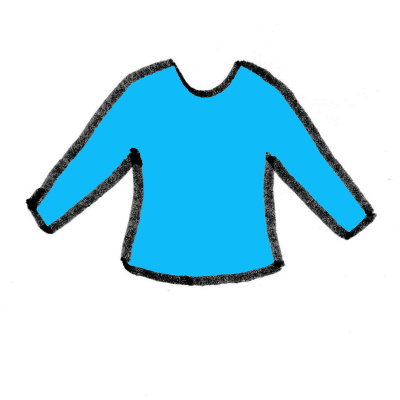
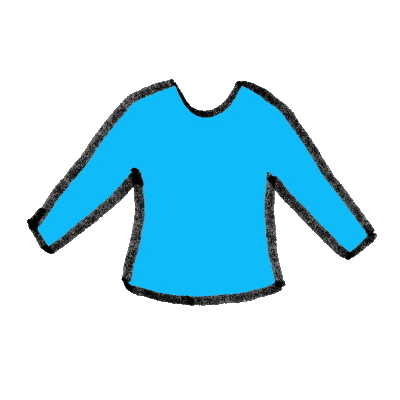
images

Changed region(s): [[0.06, 0.15, 0.96, 0.78]]

diff --git a/weather/outfits.js b/weather/outfits.js
@@ -4,20 +4,12 @@
 const clothesList = [
       {
         name: "Short Sleeve Shirt",
-        imgSrc: "images/short_sleeve.jpg", //img has a width and height
-        img2Src: "images/dummy2.jpg", 
-        imgAlt: "Image of short sleeve shirt",
-        //only use short sleeves ABOVE lowTemp, write if...else paired with long sleeves (unless a Sunday...check that first)
-        //can use if ABOVE pop
-        rainPop: 0,
-        //where to draw the image
-        xcoord: 1,
-        ycoord: 1
+        imgSrc: "images/short_sleeve.png", //img has a width and height
+        imgAlt: "Image of short sleeve shirt"
       },
       {
         name: "Long Sleeve Shirt",
-        imgSrc: "images/long_sleeve.jpg",
-        img2Src: "images/dummy2.jpg", 
+        imgSrc: "images/long_sleeve.png",
         imgAlt: "Image of long sleeve shirt",
         //only use long sleeve shirt BELOW highTemp
         //can use if ABOVE pop
@@ -27,8 +19,7 @@ const clothesList = [
       },
       {
         name: "Light Jacket",
-        imgSrc: "images/dummy.jpg", // "light_jacket.jpg",
-        img2Src: "images/dummy2.jpg",
+        imgSrc: "images/light_jacket.png",
         imgAlt: "Image of light jacket",
         //can use if ABOVE pop
         rainPop: 0,
@@ -37,8 +28,7 @@ const clothesList = [
       },
       {
         name: "Coat",
-        imgSrc: "images/dummy.jpg", // "coat.jpg",
-        img2Src: "images/dummy2.jpg",
+        imgSrc: "images/coat.png",
         imgAlt: "Image of coat",
         //can use if ABOVE pop
         rainPop: 0,
@@ -47,8 +37,7 @@ const clothesList = [
       },
       {
         name: "Umbrella",
-        imgSrc: "images/dummy.jpg", // "umbrella.jpg",
-        img2Src: "images/dummy2.jpg",
+        imgSrc: "images/umbrella.png",
         imgAlt: "Image of umbrella",
         //use daily.rain and/or daily.pop (probability of precipitation)
         //use if ABOVE pop
@@ -58,8 +47,7 @@ const clothesList = [
       },
       {
         name: "Shorts",
-        imgSrc: "images/dummy.jpg", // "shorts.jpg",
-        img2Src: "images/dummy2.jpg",
+        imgSrc: "images/shorts.png",
         imgAlt: "Image of shorts",
         //can use if ABOVE pop
         rainPop: 0,
@@ -68,8 +56,7 @@ const clothesList = [
       },
       {
         name: "Pants",
-        imgSrc: "images/pants.jpg",
-        img2Src: "images/dummy2.jpg",
+        imgSrc: "images/pants.png",
         imgAlt: "Image of pants",
         //can use if ABOVE pop
         rainPop: 0,
@@ -79,8 +66,7 @@ const clothesList = [
       {
         //everyday sandals
         name: "Sandals",
-        imgSrc: "images/sandals.jpg",
-        img2Src: "images/dummy2.jpg",
+        imgSrc: "images/sandals.png",
         imgAlt: "Image of sandals",
         //can use if ABOVE pop
         rainPop: 0,
@@ -89,8 +75,7 @@ const clothesList = [
       },
       {
         name: "Sneakers",
-        imgSrc: "images/dummy.jpg", // "sneakers.jpg",
-        img2Src: "images/dummy2.jpg",
+        imgSrc: "images/sneakers.png",
         imgAlt: "Image of sneakers",
         //can use if ABOVE pop
         rainPop: 0,
@@ -99,8 +84,7 @@ const clothesList = [
       },
       {
         name: "Socks",
-        imgSrc: "images/dummy.jpg", // "socks.jpg",
-        img2Src: "images/dummy2.jpg",
+        imgSrc: "images/socks.png",
         imgAlt: "Image of socks",
         //can use if ABOVE pop
         rainPop: 0,
@@ -110,8 +94,7 @@ const clothesList = [
       {
         //use with bitterly cold, below 30
         name: "Hat",
-        imgSrc: "images/dummy.jpg", // "hat.jpg",
-        img2Src: "images/dummy2.jpg",
+        imgSrc: "images/hat.png",
         imgAlt: "Image of winter hat",
         //can use if ABOVE pop
         rainPop: 0,
@@ -121,8 +104,7 @@ const clothesList = [
       {
         //use with bitterly cold, below 30
         name: "Scarf",
-        imgSrc: "images/dummy.jpg", // "scarf.jpg",
-        img2Src: "images/dummy2.jpg",
+        imgSrc: "images/scarf.png",
         imgAlt: "Image of winter scarf",
         //can use if ABOVE pop
         rainPop: 0,
@@ -132,8 +114,7 @@ const clothesList = [
       {
         //use with bitterly cold, below 30
         name: "Mittens",
-        imgSrc: "images/dummy.jpg", // "mittens.jpg",
-        img2Src: "images/dummy2.jpg",
+        imgSrc: "images/mittens.png",
         imgAlt: "Image of winter mittens",
         //can use if ABOVE pop
         rainPop: 0,
@@ -149,8 +130,7 @@ const clothesList = [
         //pic will include short sleeves, shorts, sandals
         //breakpoint: feels_like above 70
         name: "Hot Weather Outfit",
-        imgSrc: "images/dummy.jpg", // "hot.jpg",
-        img2Src: "images/dummy2.jpg",
+        imgSrc: "images/hot.png",
         imgAlt: "Image of hot weather outfit",
         //shirt: clothesList.name == ""  //not sure how to add in each clothesList item here
         clothing: ["Short Sleeve Shirt", "Shorts", "Sandals"],
@@ -161,8 +141,7 @@ const clothesList = [
         //pic will include short sleeves, pants, sandals
         //breakpoint: feels_like between 60-70
         name: "Mild Weather Outfit",
-        imgSrc: "images/mild.jpg",
-        img2Src: "images/dummy2.jpg",
+        imgSrc: "images/mild.png",
         imgAlt: "Image of mild weather outfit",
         clothing: ["Short Sleeve Shirt", "Pants", "Sandals"],
         lowTemp: 60,
@@ -172,8 +151,7 @@ const clothesList = [
         //pic will include short sleeves, pants, socks and shoes, light jacket
         //low will be cool but high will be warm, breakpoint: feels_like between 45-70
         name: "Cool to Warm Weather Outfit",
-        imgSrc: "images/dummy.jpg", // "cool_warm.jpg",
-        img2Src: "images/dummy2.jpg",
+        imgSrc: "images/cold.png", //use same img as cold weather outfit
         imgAlt: "Image of cool to warm weather outfit",
         clothing: ["Short Sleeve Shirt", "Pants", "Socks", "Sneakers", "Light Jacket"],
         lowTemp: 45,
@@ -184,8 +162,7 @@ const clothesList = [
         //pic will include long sleeves, pants, socks and shoes
         //breakpoint: feels_like between 50-60
         name: "Cool Weather Outfit",
-        imgSrc: "images/dummy.jpg", // "cool.jpg",
-        img2Src: "images/dummy2.jpg",
+        imgSrc: "images/cool.png",
         imgAlt: "Image of cool weather outfit",
         clothing: ["Long Sleeve Shirt", "Pants", "Socks", "Sneakers"],
         lowTemp: 50,
@@ -195,8 +172,7 @@ const clothesList = [
         //pic will include long sleeves, pants, socks and shoes, light jacket
         //breakpoint: feels_like between 40-50
         name: "Cold Weather Outfit",
-        imgSrc: "images/dummy.jpg", // "cold.jpg",
-        img2Src: "images/dummy2.jpg",
+        imgSrc: "images/cold.png",
         imgAlt: "Image of cold weather outfit",
         clothing: ["Long Sleeve Shirt", "Pants", "Socks", "Sneakers", "Light Jacket"],
         lowTemp: 40,
@@ -206,8 +182,7 @@ const clothesList = [
         //pic will include long sleeves, pants, socks and shoes, coat
         //breakpoint: feels_like between 30-40
         name: "Very Cold Weather Outfit",
-        imgSrc: "images/dummy.jpg", // "very_cold.jpg",
-        img2Src: "images/dummy2.jpg",
+        imgSrc: "images/very_cold.png",
         imgAlt: "Image of very cold weather outfit",
         clothing: ["Long Sleeve Shirt", "Pants", "Socks", "Sneakers", "Coat"],
         lowTemp: 30,
@@ -217,8 +192,7 @@ const clothesList = [
         //pic will include long sleeves, pants, socks and shoes, coat, hat, scarf, gloves/mittens
         //breakpoint: feels_like below 30
         name: "Bitterly Cold Weather Outfit",
-        imgSrc: "images/dummy.jpg", // "bitterly_cold.jpg",
-        img2Src: "images/dummy2.jpg",
+        imgSrc: "images/bitterly_cold.png",
         imgAlt: "Image of bitterly cold weather outfit",
         clothing: ["Long Sleeve Shirt", "Pants", "Socks", "Sneakers", "Coat", "Hat", "Scarf", "Mittens"],
         lowTemp: -200,
@@ -227,7 +201,6 @@ const clothesList = [
     
     
     //todo: optional stretch, 7-12) add umbrella/rain jacket to each outfit: right now, umbrella will just be another clothing item on the side when it is wet
-    //todo: render view of outfit with functions in outfits.js, conditional logic that calls that function in weatherController.js or weather.js 
     //todo: (optional stretch) Sunday best dress, warm weather and cool weather
     
     

diff --git a/weather/weatherController.js b/weather/weatherController.js
@@ -99,9 +99,10 @@ export class WeatherController { //not providing an export with the default keyw
 
     //Select the appropriate outfit for the weather conditions
     //let currentOutfit = this.outfits.getOutfitList().find(outfit => outfit.name === "Hot Weather"); 
-    //todo: fix undefined error- problem with weather breakpoints, with feelsMorn range was outside of possibilities
+    //todo: fix undefined error- problem with weather breakpoints, with feelsMorn range was outside of possibilities... expand criteria and need an else case
     //let currentOutfit = this.outfits.getOutfitList().find(outfit => outfit.lowTemp <= feelsMorn && outfit.highTemp >= feelsDay); 
-    let currentOutfit = outfits.find(outfit => outfit.lowTemp <= currentTemp && outfit.highTemp >= feelsDay); 
+    //let currentOutfit = outfits.find(outfit => outfit.lowTemp <= currentTemp && outfit.highTemp >= feelsDay); //too brittle
+    let currentOutfit = outfits.find(outfit => outfit.lowTemp <= feelsDay && outfit.highTemp >= feelsDay);
     
     console.log(currentOutfit);
 
@@ -145,7 +146,7 @@ export class WeatherController { //not providing an export with the default keyw
       } 
     //use Mist if there is no matching name for main  
     } else if (main === "Clouds" || main === "Thunderstorm" || main === "Drizzle" || main === "Rain" || main === "Snow") {
-          //(!icons.includes(main === "") {
+          //(!icons.includes(main === "") //could the above be done with some() or includes()?
         icon = icons.find(x => x.name === main);
       } else {
         icon = icons.find(x => x.name === "Mist");

diff --git a/weather/styles.css b/weather/styles.css
@@ -174,6 +174,10 @@ li:first-child {
     flex: 1; */
 } 
 
+.name {
+    text-align: center;
+}
+
 /* when p is displayed, it ruins flex overlay */
 /* .hidden {
     display: none;
